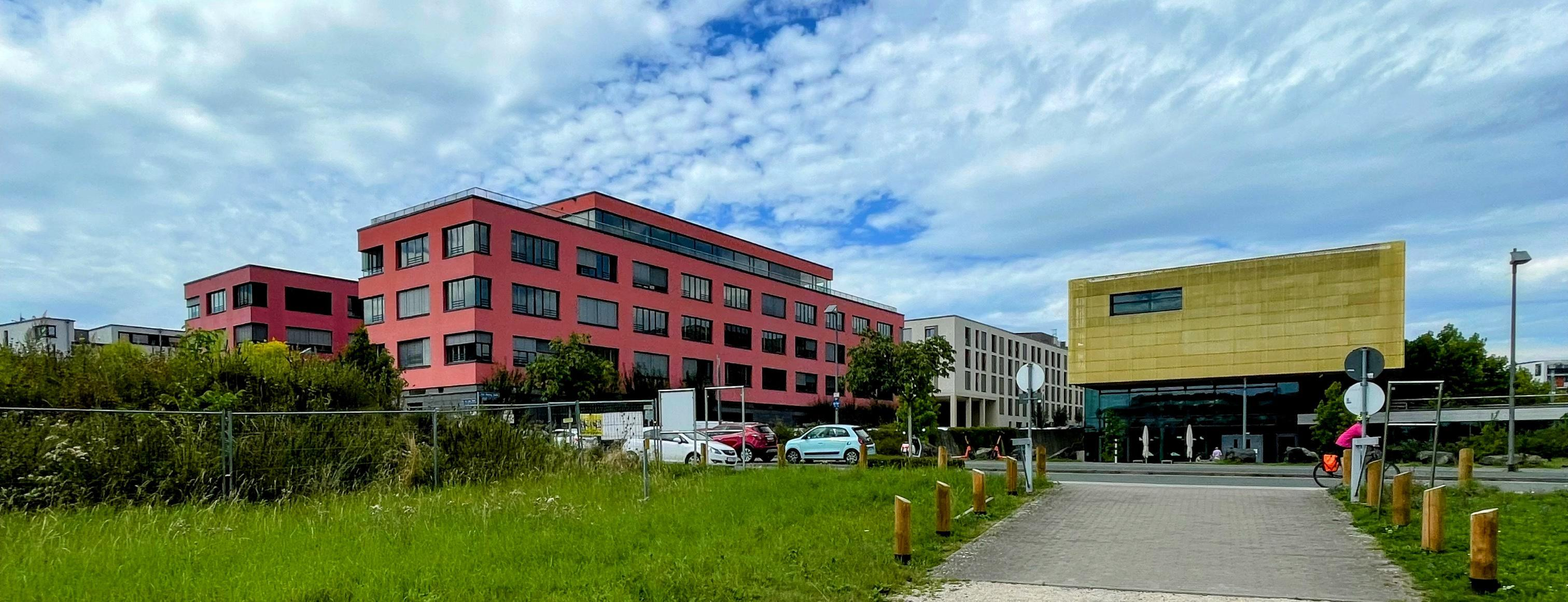
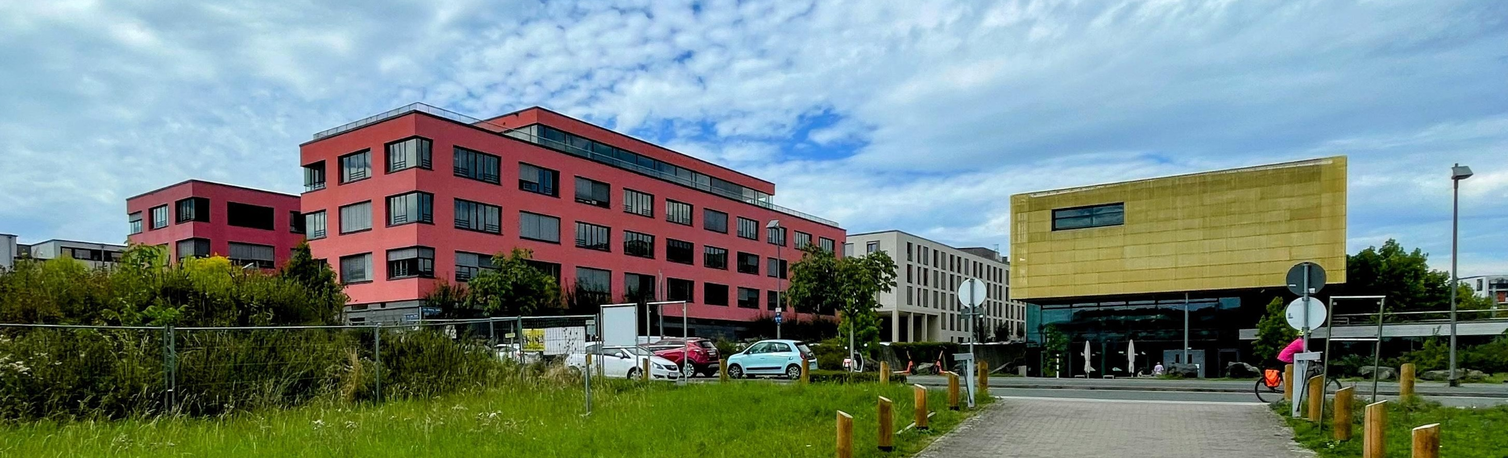
Add files via upload

diff --git a/styles.css b/styles.css
@@ -1290,3 +1290,90 @@ footer {
     max-height: none;
   }
 }
+
+/* Local FIAS banner integration */
+.hero {
+  position: relative;
+  min-height: clamp(720px, 88vh, 920px);
+  isolation: isolate;
+}
+
+.hero-header-image {
+  position: absolute;
+  top: 86px;
+  left: clamp(20px, 4vw, 56px);
+  right: clamp(20px, 4vw, 56px);
+  z-index: -1;
+  max-width: 1280px;
+  height: clamp(245px, 30vw, 390px);
+  margin: 0 auto;
+  border: 1px solid var(--line);
+  border-radius: var(--radius);
+  overflow: hidden;
+  background: var(--bg-soft);
+  box-shadow: 0 22px 58px rgba(0, 0, 0, 0.28);
+}
+
+.hero-header-image::after {
+  content: "";
+  position: absolute;
+  inset: 0;
+  background:
+    linear-gradient(180deg, rgba(13, 20, 18, 0.02) 0%, rgba(13, 20, 18, 0.08) 48%, rgba(13, 20, 18, 0.52) 100%),
+    linear-gradient(90deg, rgba(13, 20, 18, 0.26) 0%, rgba(13, 20, 18, 0.06) 48%, rgba(13, 20, 18, 0.2) 100%);
+}
+
+.hero-header-image img {
+  width: 100%;
+  height: 100%;
+  display: block;
+  object-fit: cover;
+  object-position: center center;
+  filter: brightness(1.18) saturate(1.08);
+}
+
+.hero .hero-grid {
+  position: relative;
+  z-index: 1;
+  padding-top: clamp(250px, 29vw, 350px);
+}
+
+.hero .profile-card {
+  margin-top: clamp(-135px, -9vw, -76px);
+  background: rgba(0, 0, 0, 0.48);
+  backdrop-filter: blur(4px);
+  -webkit-backdrop-filter: blur(4px);
+}
+
+@media (min-width: 860px) {
+  .hero .hero-grid {
+    align-items: start;
+  }
+}
+
+@media (max-width: 760px) {
+  .hero {
+    min-height: auto;
+  }
+
+  .hero-header-image {
+    top: 128px;
+    left: 12px;
+    right: 12px;
+    height: 170px;
+  }
+
+  .hero-header-image::after {
+    background:
+      linear-gradient(180deg, rgba(13, 20, 18, 0.02) 0%, rgba(13, 20, 18, 0.06) 48%, rgba(13, 20, 18, 0.52) 100%),
+      linear-gradient(90deg, rgba(13, 20, 18, 0.18), rgba(13, 20, 18, 0.04));
+  }
+
+  .hero .hero-grid {
+    padding-top: 185px;
+  }
+
+  .hero .profile-card {
+    margin-top: 20px;
+  }
+}

diff --git a/index.html b/index.html
@@ -3,7 +3,7 @@
 <head>
   <meta charset="UTF-8" />
   <meta name="viewport" content="width=device-width, initial-scale=1.0" />
-  <title>Adrian Romero | Adrian William Romero Jorge</title>
+  <title>A.W.R. Jorge's Personal Webpage</title>
   <link rel="preconnect" href="https://fonts.googleapis.com" />
   <link rel="preconnect" href="https://fonts.gstatic.com" crossorigin />
   <link href="https://fonts.googleapis.com/css2?family=Bebas+Neue&family=Space+Grotesk:wght@400;500;700&display=swap" rel="stylesheet" />
@@ -15,7 +15,7 @@
 
   <header class="hero" id="home">
     <nav class="topbar">
-      <a class="logo" href="index.html">Adrian Romero</a>
+      <a class="logo" href="index.html">A. W. R. Jorge</a>
       <div class="menu">
         <a class="active" href="index.html">Home</a>
         <a href="#status">Current status</a>
@@ -28,9 +28,12 @@
       </div>
     </nav>
 
+    <figure class="hero-header-image reveal" aria-label="FIAS campus">
+      <img src="fias.jpeg" alt="FIAS campus building" loading="eager" decoding="async" fetchpriority="high" />
+    </figure>
+
     <div class="hero-grid reveal">
       <div class="hero-content hero-text">
-        <p class="eyebrow">Personal website</p>
         <h1 class="hero-name">Adrian William Romero Jorge</h1>
         <p class="lead">
           Ph.D. Student at FIAS / Goethe University Frankfurt. I work on theoretical physics, heavy-ion collisions, and dark matter.

diff --git a/skills.html b/skills.html
@@ -15,7 +15,7 @@
 
   <header class="hero" id="home">
     <nav class="topbar">
-      <a class="logo" href="index.html">Adrian Romero</a>
+      <a class="logo" href="index.html">A. W. R. Jorge</a>
       <div class="menu">
         <a href="index.html">Home</a>
         <a class="active" href="skills.html">Skills</a>

diff --git a/arte.html b/arte.html
@@ -15,7 +15,7 @@
 
   <header class="hero" id="home">
     <nav class="topbar">
-      <a class="logo" href="index.html">Adrian Romero</a>
+      <a class="logo" href="index.html">A. W. R. Jorge</a>
       <div class="menu">
         <a href="index.html">Home</a>
         <a href="skills.html">Skills</a>

diff --git a/beyond-physics.html b/beyond-physics.html
@@ -15,7 +15,7 @@
 
   <header class="hero" id="home">
     <nav class="topbar">
-      <a class="logo" href="index.html">Adrian Romero</a>
+      <a class="logo" href="index.html">A. W. R. Jorge</a>
       <div class="menu">
         <a href="index.html">Home</a>
         <a href="skills.html">Skills</a>

diff --git a/datenschutz.html b/datenschutz.html
@@ -14,7 +14,7 @@
 
   <header class="hero" id="home">
     <nav class="topbar">
-      <a class="logo" href="index.html">Adrian Romero</a>
+      <a class="logo" href="index.html">A. W. R. Jorge</a>
       <div class="menu">
         <a href="index.html">Home</a>
         <a href="skills.html">Skills</a>

diff --git a/impressum.html b/impressum.html
@@ -14,7 +14,7 @@
 
   <header class="hero" id="home">
     <nav class="topbar">
-      <a class="logo" href="index.html">Adrian Romero</a>
+      <a class="logo" href="index.html">A. W. R. Jorge</a>
       <div class="menu">
         <a href="index.html">Home</a>
         <a href="skills.html">Skills</a>

diff --git a/process.html b/process.html
@@ -15,7 +15,7 @@
 
   <header class="hero" id="home">
     <nav class="topbar">
-      <a class="logo" href="index.html">Adrian Romero</a>
+      <a class="logo" href="index.html">A. W. R. Jorge</a>
       <div class="menu">
         <a href="index.html">Home</a>
         <a href="skills.html">Skills</a>
